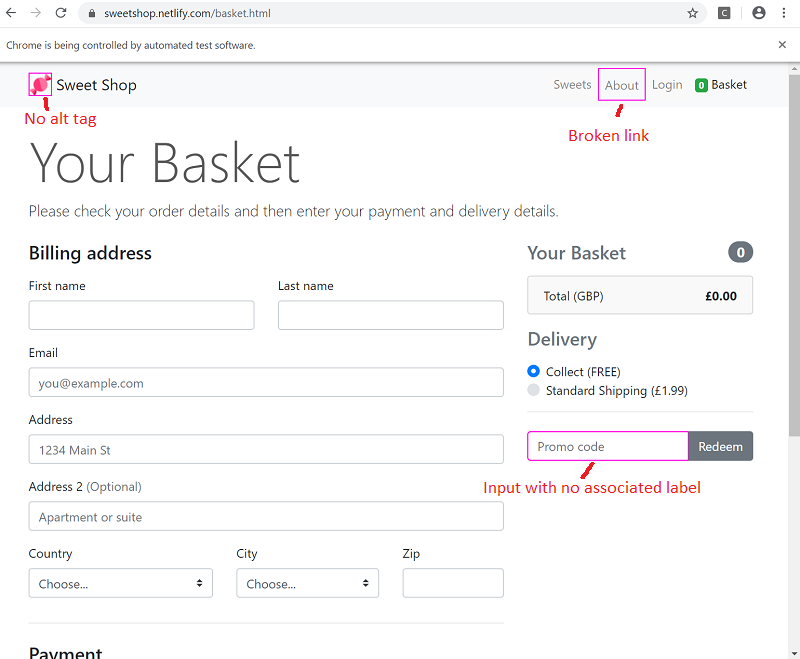
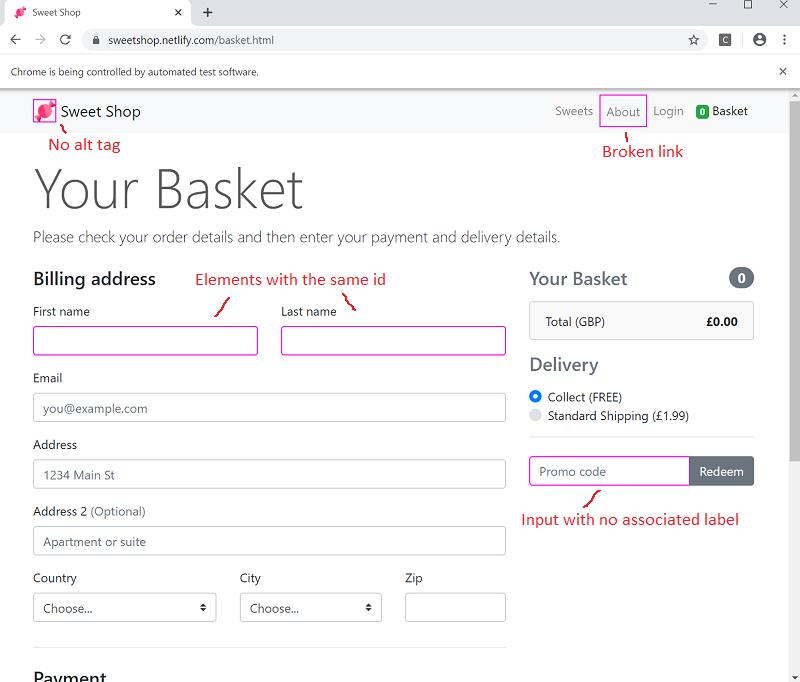
Updating blog post to check for duplicate ids

diff --git a/_posts/2020-02-22-automating-visual-checking-of-missing-alt-no-labels-broken-links.md b/_posts/2020-02-22-automating-visual-checking-of-missing-alt-no-labels-broken-links.md
@@ -1,6 +1,6 @@
 ---
 layout: post
-title: Automating visual checking of alt tags, labels and broken links
+title: Automating visual checking of alt tags, labels, broken links and duplicate ids
 description: 
 headline: 
 modified: 2018-11-06
@@ -23,6 +23,7 @@ The things I wanted to check and highlight in my visual checks were:
 * Are there any images on my page with no alt tags
 * Are there any inputs on my page which do not have associated labels
 * Are there any broken links on my page
+* Are there any elements on my page with the same ids
 
 If any of the above were true I decided that I would draw a pink border around the problems. In reality you may want to do something like add text or an icon to highlight what type of issue was found but I decided to keep this proof of concept fairly simple.
 
